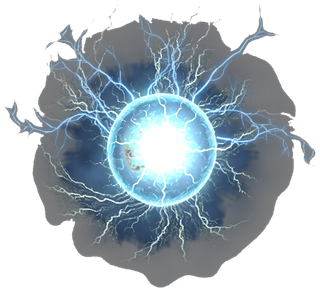
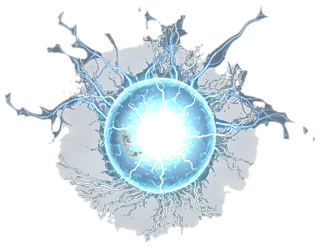
Wispera victory still: re-key grey halo (wispera-specific key); KO still shots wait for full opacity

diff --git a/tests/repo/victory-frames.test.ts b/tests/repo/victory-frames.test.ts
@@ -24,7 +24,7 @@ const STILLS: Record<string, { src: string; srcSha: string; outSha: string; faci
[5 lines of base64/hex data omitted]
 };
 
 describe('victory frames (tools/assets/victory-gen/victory-key.py)', () => {

diff --git a/tests/e2e/victory-still.spec.ts b/tests/e2e/victory-still.spec.ts
@@ -110,6 +110,8 @@ for (const [kind, hero] of ORIGINALS) test(`${hero} ${kind === 'victory' ? 'wins
   await waitFor(page, 'results screen', `!!document.querySelector('#arcadeResults')`);
   await expect(page.locator(`#arcadeResults ${kind === 'victory' ? '.matchEndStill' : '.matchEndKoStill'}`)).toHaveAttribute('data-hero', hero);
   expect(requests.length).toBe(1);
+  // the still fades in over 400 ms: capture only at full opacity
+  await waitFor(page, 'still fade finished', `(() => { const el = document.querySelector('#arcadeResults ${kind === 'victory' ? '.matchEndStill' : '.matchEndKoStill'}'); return !!el && getComputedStyle(el).opacity === '1' && el.getAnimations().every((a) => a.playState === 'finished'); })()`);
   await test.info().attach(`${hero}-${kind}`, { body: await page.screenshot(), contentType: 'image/png' }); // fetched with the router's test-results
   if (SHOT_DIR) {
     mkdirSync(SHOT_DIR, { recursive: true });

diff --git a/tools/assets/victory-gen/victory-key.py b/tools/assets/victory-gen/victory-key.py
@@ -66,9 +66,32 @@ def key(src: Image.Image, pocket_tol: int = 3, tol: int = TOL) -> Image.Image:
     return out
 
 
+# wispera only (art-director 2026-11-26): key out the flat grey disc (S < 0.15, mid luminance 90-150) so only the bright core, the blue/white
+# lightning and a faint blue cloud stay. Matte threshold 0.35, erode 3 px, feather 1.5 px; the cloud (dark pixels outside 0.8 of the ball radius)
+# is multiplied by 0.25. The core is not brightened.
+WISPERA_BALL = (512, 525, 155)  # centre x, y and radius in the 1024 source
+
+
+def key_wispera(src: Image.Image) -> Image.Image:
+    rgb = src.convert("RGB")
+    sat, lum = rgb.convert("HSV").getchannel("S"), rgb.convert("L")
+    grey = ImageChops.multiply(sat.point(lambda v: 255 if v < 38 else 0), lum.point(lambda v: 255 if 90 <= v <= 150 else 0))
+    matte = grey.point(lambda v: 0 if v else 255).filter(ImageFilter.GaussianBlur(1)).point(lambda v: 255 if v >= 0.35 * 255 else 0)
+    matte = matte.filter(ImageFilter.MinFilter(7)).filter(ImageFilter.GaussianBlur(1.5))
+    cx, cy, r = WISPERA_BALL
+    inner = Image.new("L", rgb.size, 0)
+    ImageDraw.Draw(inner).ellipse((cx - 0.8 * r, cy - 0.8 * r, cx + 0.8 * r, cy + 0.8 * r), fill=255)
+    cloud = ImageChops.multiply(ImageChops.invert(inner.filter(ImageFilter.GaussianBlur(4))), lum.point(lambda v: 255 if v < 110 else 0))
+    matte = ImageChops.lighter(matte, inner.filter(ImageFilter.GaussianBlur(1.5)))  # the ball interior stays opaque (no holes at the rust speck)
+    matte = ImageChops.multiply(matte, ImageChops.invert(cloud.point(lambda v: round(v * 0.75))))
+    out = rgb.convert("RGBA")
+    out.putalpha(matte)
+    return out
+
+
 def install(hero: str, out_dir: Path) -> None:
     src = Image.open(PROV / HEROES[hero])
-    im = src.convert("RGBA") if "A" in src.getbands() else key(src, POCKET_TOL.get(hero, 3), HERO_TOL.get(hero, TOL))
+    im = src.convert("RGBA") if "A" in src.getbands() else key_wispera(src) if hero == "wispera" else key(src, POCKET_TOL.get(hero, 3), HERO_TOL.get(hero, TOL))
     box = im.getchannel("A").point(lambda v: 255 if v > 8 else 0).getbbox()
     if box is None:
         raise SystemExit(f"{hero}: empty matte")

diff --git a/ideas/brainstorm/wispera-victory-rekey.md b/ideas/brainstorm/wispera-victory-rekey.md
@@ -11,3 +11,8 @@ Wispera victory REVISE: the keyed still keeps a flat grey disc (~25-30% of the r
 
 Also: recapture the sindarosa and curomo KO stills at full opacity (wait ~500 ms after the fade in `tests/e2e/victory-still.spec.ts`) and send them to the art-director; the curomo 6 px nudge stays unless more than 3 px of float shows.
 Layout note (not art): wispera and curomo victory stills sit inside the yellow-glow card and look slightly "framed" next to fiara; optional card polish.
+
+## Progress note (2026-11-26)
+- Part 1 done: `key_wispera` in `tools/assets/victory-gen/victory-key.py` (S < 0.15 and L 90-150 keyed, matte 0.35, erode 3 px, feather 1.5 px, dark cloud outside 0.8 ball radius x0.25, ball interior forced opaque so the rust speck leaves no hole; core not brightened). Only `wispera_victory.png` changed; pin updated. Before/after sheet: `.scratch/wispera-rekey/sheet.png` (worktree-local).
+- Part 2 done: `tests/e2e/victory-still.spec.ts` waits for opacity 1 and finished animations before the screenshot; PC run, 5 passed; stills in `.scratch/originals-stills/` (curomo-ko, curomo-victory, sindarosa-ko, wispera-victory).
+- Open: art-director re-check of wispera victory, sindarosa KO and curomo KO nudge. Status stays idea until then.
